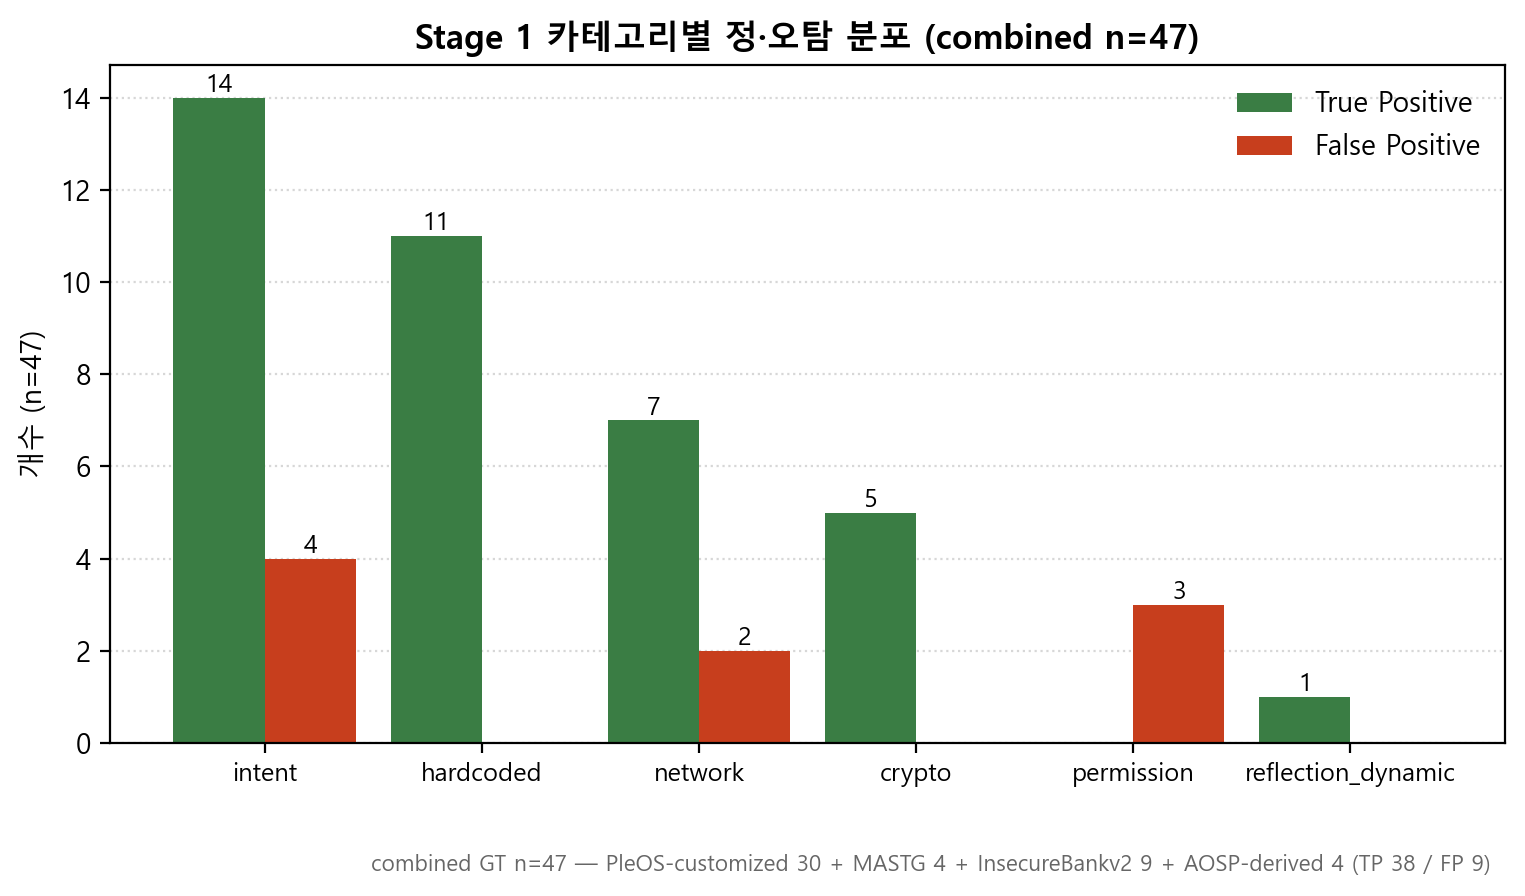
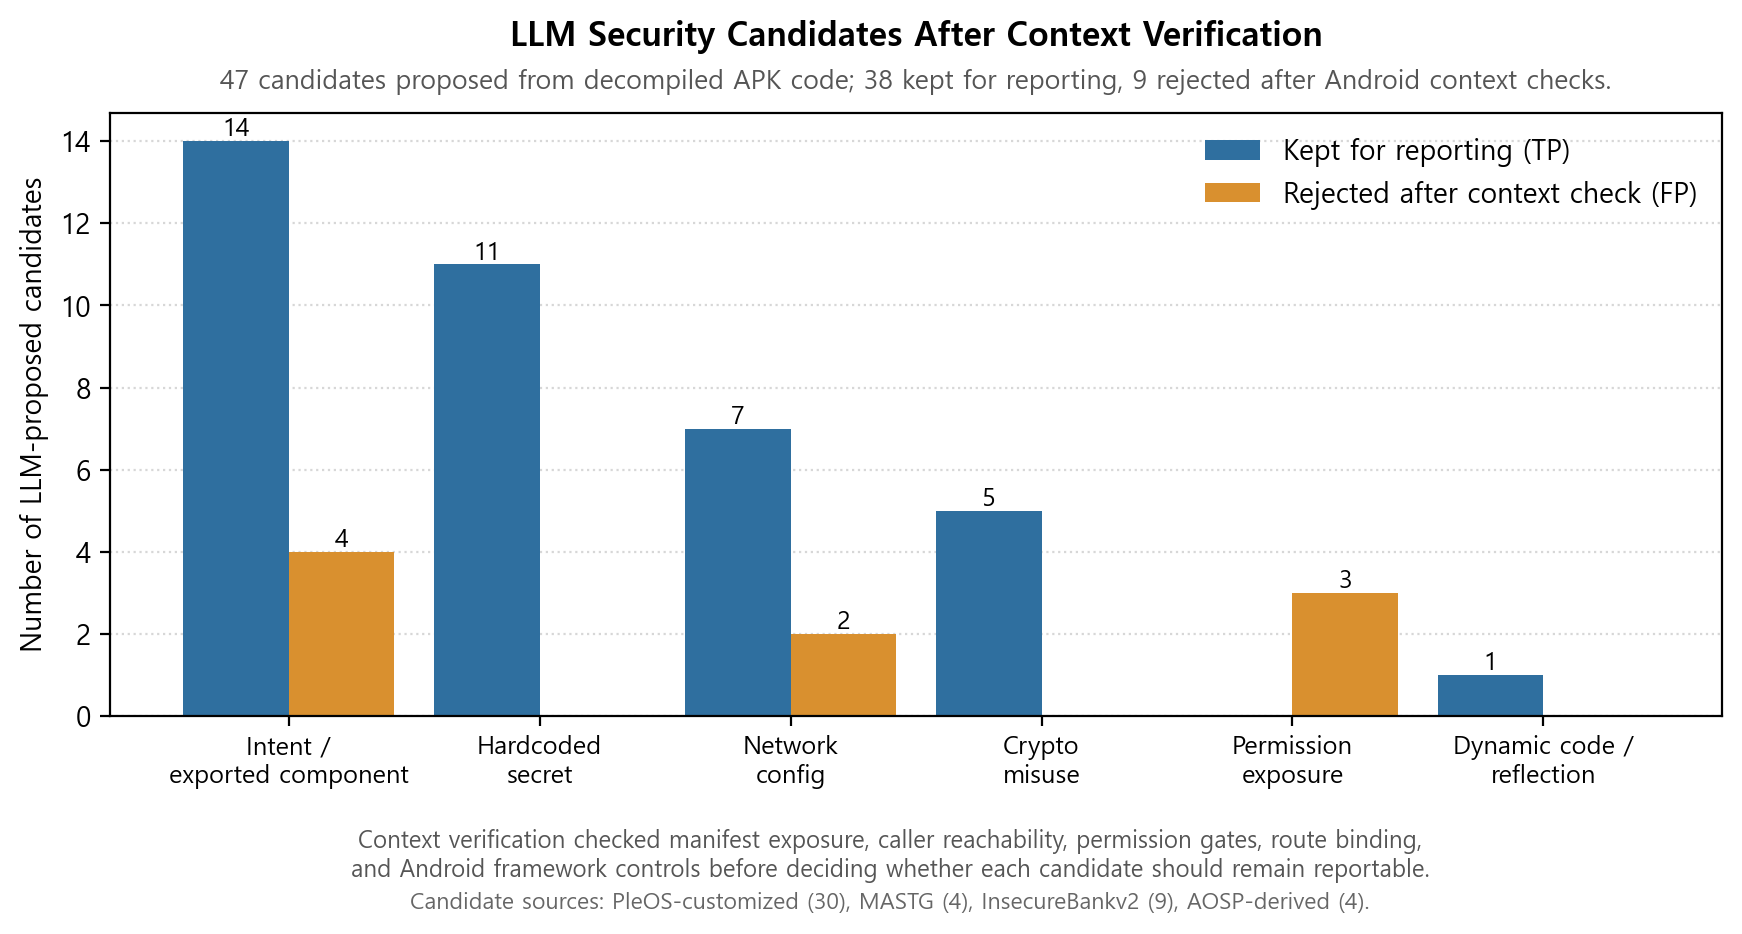
viz: restore final category distribution chart

Changed region(s): [[0.0, 0.0, 1.0, 1.0], [0.0, 0.5938, 0.0308, 0.6875]]

diff --git a/src/viz/plot_metrics.py b/src/viz/plot_metrics.py
@@ -40,19 +40,31 @@ matplotlib.rcParams["font.size"] = 10
 OUT_DIR = Path("data/viz")
 OUT_DIR.mkdir(parents=True, exist_ok=True)
 
-# ---------------------------------------------------------------- 01 category distribution
+# ---------------------------------------------------------------- 01 candidate verification by vulnerability pattern
 def chart_category_distribution() -> None:
-    # combined_labels.json n=47 기준 (is_real → TP/FP, stage1_category 그룹)
-    cats = ["intent", "hardcoded", "network", "crypto", "permission", "reflection_dynamic"]
-    tp = [14, 11, 7, 5, 0, 1]
-    fp = [4, 0, 2, 0, 3, 0]
+    # combined_labels.json n=47: is_real -> kept/rejected, grouped by original candidate category.
+    cats = [
+        "Intent /\nexported component",
+        "Hardcoded\nsecret",
+        "Network\nconfig",
+        "Crypto\nmisuse",
+        "Permission\nexposure",
+        "Dynamic code /\nreflection",
+    ]
+    kept = [14, 11, 7, 5, 0, 1]
+    rejected = [4, 0, 2, 0, 3, 0]
     x = np.arange(len(cats))
     width = 0.42
-    fig, ax = plt.subplots(figsize=(9.0, 4.4))
-    b1 = ax.bar(x - width / 2, tp, width, label="True Positive", color="#3a7d44")
-    b2 = ax.bar(x + width / 2, fp, width, label="False Positive", color="#c73e1d")
-    ax.set_ylabel("개수 (n=47)")
-    ax.set_title("Stage 1 카테고리별 정·오탐 분포 (combined n=47)")
+    fig, ax = plt.subplots(figsize=(10.4, 5.2))
+    b1 = ax.bar(x - width / 2, kept, width, label="Kept for reporting (TP)", color="#2f6f9f")
+    b2 = ax.bar(x + width / 2, rejected, width, label="Rejected after context check (FP)", color="#d9902f")
+    ax.set_ylabel("Number of LLM-proposed candidates")
+    ax.set_title("LLM Security Candidates After Context Verification", pad=24)
+    ax.text(
+        0.5, 1.03,
+        "47 candidates proposed from decompiled APK code; 38 kept for reporting, 9 rejected after Android context checks.",
+        transform=ax.transAxes, ha="center", va="bottom", fontsize=9.5, color="#555",
+    )
     ax.set_xticks(x)
     ax.set_xticklabels(cats, fontsize=9)
     ax.set_yticks(range(0, 16, 2))
@@ -64,23 +76,30 @@ def chart_category_distribution() -> None:
             h = b.get_height()
             if h:
                 ax.text(b.get_x() + b.get_width() / 2, h + 0.12, f"{int(h)}", ha="center", fontsize=9)
-    ax.text(
-        0.99, -0.18,
-        "combined GT n=47 — PleOS-customized 30 + MASTG 4 + InsecureBankv2 9 + AOSP-derived 4 (TP 38 / FP 9)",
-        transform=ax.transAxes, ha="right", va="center", fontsize=8, color="#666",
+    fig.text(
+        0.5, 0.105,
+        "Context verification checked manifest exposure, caller reachability, permission gates, route binding,\n"
+        "and Android framework controls before deciding whether each candidate should remain reportable.",
+        ha="center", va="center", fontsize=8.5, color="#555",
     )
+    fig.text(
+        0.5, 0.060,
+        "Candidate sources: PleOS-customized (30), MASTG (4), InsecureBankv2 (9), AOSP-derived (4).",
+        ha="center", va="center", fontsize=8.2, color="#666",
+    )
+    fig.subplots_adjust(bottom=0.24, top=0.82)
     fig.savefig(OUT_DIR / "01_category_distribution.png")
     plt.close(fig)
 
 
 # ---------------------------------------------------------------- 02 severity heatmap
 def chart_severity_heatmap() -> None:
-    # combined_labels.json n=47: verified vulnerabilities by APK/final severity,
-    # with rejected candidates shown as a separate right-side annotation.
+    # combined_labels.json n=47: verified vulnerabilities by APK/final severity.
     apks = [
-        "VehicleControl", "sync.syslog", "llm.model.provider", "account",
-        "appmarket", "ambientai", "maps", "UnCrackable-L1", "UnCrackable-L3",
-        "InsecureBankv2", "usb.handler", "statementservice",
+        "VehicleControl [PleOS]", "sync.syslog [PleOS]", "llm.model.provider [PleOS]",
+        "account [PleOS]", "appmarket [PleOS]", "ambientai [PleOS]", "maps [PleOS]",
+        "UnCrackable-L1 [MASTG]", "UnCrackable-L3 [MASTG]",
+        "InsecureBankv2 [External]", "usb.handler [AOSP]", "statementservice [AOSP]",
     ]
     sev_levels = ["HIGH", "MEDIUM", "LOW"]
     verified_matrix = np.array(
@@ -100,9 +119,8 @@ def chart_severity_heatmap() -> None:
         ],
         dtype=int,
     )
-    rejected_per_apk = np.array([4, 0, 0, 0, 1, 2, 0, 0, 0, 0, 1, 1])  # total 9 rejected
 
-    fig, ax = plt.subplots(figsize=(8.2, 6.8))
+    fig, ax = plt.subplots(figsize=(8.4, 6.8))
     im = ax.imshow(verified_matrix, aspect="auto", cmap="Blues", vmin=0, vmax=verified_matrix.max())
     ax.set_xticks(range(len(sev_levels)))
     ax.set_xticklabels(sev_levels)
@@ -111,7 +129,7 @@ def chart_severity_heatmap() -> None:
     ax.set_title("Verified Security Vulnerabilities By APK And Severity", pad=30)
     ax.text(
         0.5, 1.035,
-        "38 verified vulnerabilities by final severity; 9 false-positive candidates.",
+        "38 verified vulnerabilities by final severity; PleOS rows are marked for project-target context.",
         transform=ax.transAxes, ha="center", va="bottom", fontsize=9, color="#555",
     )
 
@@ -122,22 +140,15 @@ def chart_severity_heatmap() -> None:
                 ax.text(j, i, str(v), ha="center", va="center",
                         color="white" if v >= 4 else "#222", fontweight="bold")
 
-    # Rejected candidates are not assigned final severity, so they are shown outside the heatmap.
-    ax2 = ax.twinx()
-    ax2.set_yticks(range(len(apks)))
-    ax2.set_yticklabels([f"FP={n}" for n in rejected_per_apk])
-    ax2.set_ylim(ax.get_ylim())
-    ax2.tick_params(axis="y", labelsize=8, labelcolor="#d9902f")
-
-    cbar = fig.colorbar(im, ax=ax, fraction=0.046, pad=0.20)
+    cbar = fig.colorbar(im, ax=ax, fraction=0.046, pad=0.08)
     cbar.ax.set_title("Count", fontsize=8, pad=8)
     fig.text(
         0.5, 0.075,
-        "This chart is a coverage map for the evaluated corpus, not a prevalence estimate for all PleOS APKs.\n"
-        "False-positive candidates are shown outside the heatmap because they do not receive final severity.",
+        "Rows marked [PleOS] are the project target apps; HIGH cells indicate priority targets for follow-up analysis.\n"
+        "Runtime PoC tracks focus on selected PleOS rows, including VehicleControl and maps.",
         ha="center", va="center", fontsize=8.2, color="#666",
     )
-    fig.subplots_adjust(bottom=0.14, top=0.84)
+    fig.subplots_adjust(left=0.25, bottom=0.14, top=0.84)
     fig.savefig(OUT_DIR / "02_apk_severity_heatmap.png")
     plt.close(fig)
 

diff --git a/docs/05_charts.md b/docs/05_charts.md
@@ -7,7 +7,7 @@ This document records the chart artifacts used by the final report. The chart im
 | Chart | Source input | Command | Boundary |
 |---|---|---|---|
 | `data/viz/01_category_distribution.png` | 47-candidate vulnerability-pattern summary embedded in plotting script | `python src/viz/plot_metrics.py` | LLM candidates after context verification; TP/FP appears only in the legend |
-| `data/viz/02_apk_severity_heatmap.png` | verified-vulnerability APK/severity matrix plus false-positive candidate counts in script | same | coverage map for the evaluated corpus, not a prevalence estimate for all PleOS APKs |
+| `data/viz/02_apk_severity_heatmap.png` | verified-vulnerability APK/severity matrix in script | same | HIGH-severity coverage map for follow-up analysis; PleOS rows are marked |
 | `data/viz/03_fp_rate_trend.png` | Stage 1/2/3 FP-rate comparison | same | stage comparison, not chronological trend |
 | `data/viz/04_deobf_accuracy_trend.png` | `data/deobf/*.json` plus fixed corpus annotations | same | corpus comparison, not time trend |
 | `data/viz/05_ablation_bars.png` | final `n=47` ablation and consensus-threshold values | same | threshold sensitivity, not new independent evaluation |
@@ -17,7 +17,7 @@ This document records the chart artifacts used by the final report. The chart im
 
 - The Stage 3 `0.0%` false-positive rate means no false positives among accepted Stage 3 findings in this measured corpus. It is not a universal guarantee.
 - Chart 01 shows candidates proposed from decompiled APK code and then kept or rejected after Android context checks.
-- Chart 02 colors count verified security vulnerabilities by final severity. FP candidates are shown outside the heatmap because they do not receive final severity.
+- Chart 02 colors count verified security vulnerabilities by final severity. Rows marked `[PleOS]` are project target apps, and HIGH cells identify priority APKs for follow-up analysis.
 - The FP-rate chart uses "trend" in the filename, but the x-axis is pipeline stage, not time.
 - The deobfuscation chart uses "trend" in the filename, but it compares corpora, not time.
 - The deobfuscation chart combines two measurements: HIGH-obfuscation ratio and rename-evaluation annotations. The bar height is not rename accuracy.
